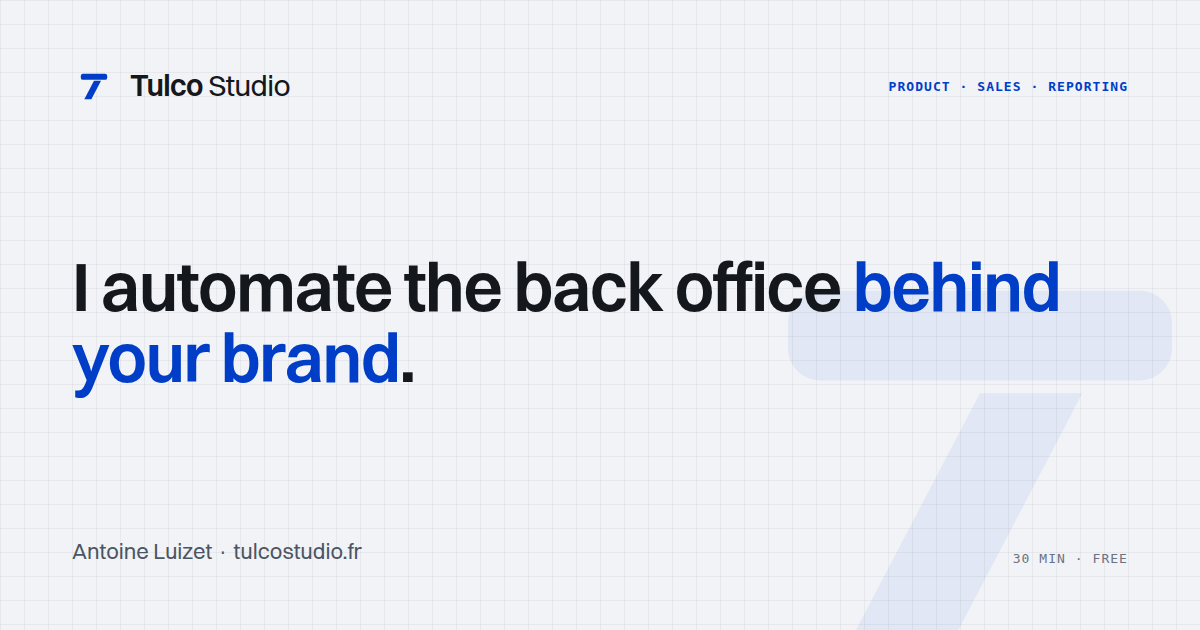
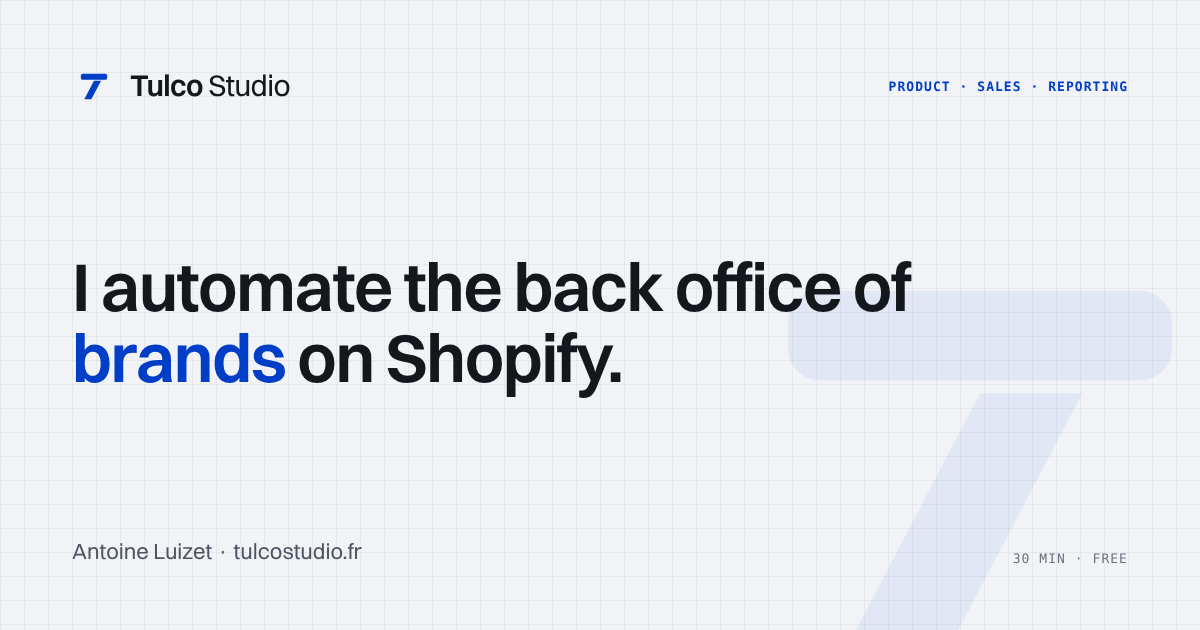
Recale la LP sur l'Offre V4 : Shopify cité, Odoo et Klaviyo retirés
- Titre, meta, images de partage, constat, trois flux, Pour qui, FAQ et
  footer mentionnent Shopify (FR et EN).
- Seul Shopify est cité comme marque d'outil ; les autres briques sont
  nommées par catégorie (ERP, PIM, PLM, CRM, emailing, expéditions).
- Ajout de la question FAQ « Vous êtes une agence Shopify ? ».
- og.png / og-en.png régénérées, brief et README alignés.

Claude-Session: https://claude.ai/code/session_01DhS4ZVVYFRFczXATYrpYc7

diff --git a/index.html b/index.html
@@ -4,8 +4,8 @@
 <meta charset="utf-8">
 <meta name="viewport" content="width=device-width, initial-scale=1">
 <link rel="icon" type="image/svg+xml" href="favicon.svg">
-<title>Tulco Studio · J'automatise le back-office des marques</title>
-<meta name="description" content="Fiches produit, commandes revendeurs, reporting : j'automatise le back-office des marques pour que vos équipes arrêtent de ressaisir. Ex chef de produit retail.">
+<title>Tulco Studio · J'automatise le back-office des marques sur Shopify</title>
+<meta name="description" content="Fiches produit, commandes revendeurs, reporting : j'automatise le back-office des marques sur Shopify pour que vos équipes arrêtent de ressaisir. Ex chef de produit retail.">
 <link rel="canonical" href="https://www.tulcostudio.fr/">
 <link rel="alternate" hreflang="fr" href="https://www.tulcostudio.fr/">
 <link rel="alternate" hreflang="en" href="https://www.tulcostudio.fr/en/">
@@ -13,15 +13,15 @@
 <meta property="og:type" content="website">
 <meta property="og:url" content="https://www.tulcostudio.fr/">
 <meta property="og:site_name" content="Tulco Studio">
-<meta property="og:title" content="Tulco Studio · J'automatise le back-office des marques">
+<meta property="og:title" content="Tulco Studio · J'automatise le back-office des marques sur Shopify">
 <meta property="og:description" content="Vos outils se parlent enfin. Vos équipes arrêtent de ressaisir et se concentrent sur la marque.">
 <meta property="og:image" content="https://www.tulcostudio.fr/og.png">
 <meta property="og:image:width" content="1200">
 <meta property="og:image:height" content="630">
-<meta property="og:image:alt" content="Tulco Studio : automatisation du back-office des marques">
+<meta property="og:image:alt" content="Tulco Studio : automatisation du back-office des marques sur Shopify">
 <meta property="og:locale" content="fr_FR">
 <meta name="twitter:card" content="summary_large_image">
-<meta name="twitter:title" content="Tulco Studio · J'automatise le back-office des marques">
+<meta name="twitter:title" content="Tulco Studio · J'automatise le back-office des marques sur Shopify">
 <meta name="twitter:description" content="Vos outils se parlent enfin. Vos équipes arrêtent de ressaisir et se concentrent sur la marque.">
 <meta name="twitter:image" content="https://www.tulcostudio.fr/og.png">
 <script src="./support.js"></script>
@@ -203,7 +203,7 @@
     <div style="position: relative; max-width: var(--container-max); margin: 0 auto; padding: clamp(48px,7vw,84px) clamp(20px,5vw,64px) clamp(44px,6vw,72px);">
       <div style="max-width: 900px;">
         <div style="font-family: var(--font-mono); font-size: 12px; font-weight: 600; text-transform: uppercase; letter-spacing: 0.08em; color: var(--accent); margin-bottom: 16px;">Back-office des marques · PME</div>
-        <h1 style="margin: 0; font-weight: 600; font-size: clamp(36px,6vw,78px); line-height: var(--leading-tight); letter-spacing: var(--tracking-display); color: var(--text-primary);">J'automatise le back-office des marques.</h1>
+        <h1 style="margin: 0; font-weight: 600; font-size: clamp(36px,6vw,78px); line-height: var(--leading-tight); letter-spacing: var(--tracking-display); color: var(--text-primary);">J'automatise le back-office des marques sur Shopify.</h1>
         <p style="margin: 24px 0 0; max-width: 620px; font-size: var(--text-lg); line-height: 1.35; color: var(--text-secondary); font-weight: 500;">Vos outils se parlent enfin. Vos équipes arrêtent de ressaisir et se concentrent sur la marque.</p>
         <div class="hero-cta">
           <x-import component-from-global-scope="TulcoStudioDesignSystem_ac5776.Button" variant="primary" size="lg" onClick="{{ openBooking }}" hint-size="340px,50px">Voir ce qu'on automatiserait en premier</x-import>
@@ -228,7 +228,7 @@
       <div style="background: var(--white); border: 1px solid var(--border-default); border-top: var(--rule-accent) solid var(--danger);">
         <div style="display: flex; gap: 14px; align-items: flex-start; padding: var(--space-5) var(--space-6); border-bottom: 1px solid var(--border-default);">
           <span style="flex: none; width: 8px; height: 8px; margin-top: 7px; background: var(--danger);"></span>
-          <p style="margin: 0; font-size: var(--text-sm); line-height: 1.6; color: var(--text-primary);">Le fichier de collection est recopié à la main pour le site.</p>
+          <p style="margin: 0; font-size: var(--text-sm); line-height: 1.6; color: var(--text-primary);">Le fichier de collection est recopié à la main sur Shopify.</p>
         </div>
         <div style="display: flex; gap: 14px; align-items: flex-start; padding: var(--space-5) var(--space-6); border-bottom: 1px solid var(--border-default);">
           <span style="flex: none; width: 8px; height: 8px; margin-top: 7px; background: var(--danger);"></span>
@@ -236,7 +236,7 @@
         </div>
         <div style="display: flex; gap: 14px; align-items: flex-start; padding: var(--space-5) var(--space-6); border-bottom: 1px solid var(--border-default);">
           <span style="flex: none; width: 8px; height: 8px; margin-top: 7px; background: var(--danger);"></span>
-          <p style="margin: 0; font-size: var(--text-sm); line-height: 1.6; color: var(--text-primary);">Le stock ne suit pas entre le site, la boutique et l'entrepôt.</p>
+          <p style="margin: 0; font-size: var(--text-sm); line-height: 1.6; color: var(--text-primary);">Le stock ne suit pas entre Shopify, la boutique et l'entrepôt.</p>
         </div>
         <div style="display: flex; gap: 14px; align-items: flex-start; padding: var(--space-5) var(--space-6);">
           <span style="flex: none; width: 8px; height: 8px; margin-top: 7px; background: var(--danger);"></span>
@@ -394,7 +394,7 @@
             <span class="proof-name">Nichebloom · marque en lancement</span>
             <span style="font-family: var(--font-mono); font-size: 10px; text-transform: uppercase; letter-spacing: 0.04em; padding: 4px 8px; background: var(--bg-subtle); border: 1px solid var(--border-default); color: var(--accent);">En cours</span>
           </div>
-          <p style="margin: 0; font-size: var(--text-sm); line-height: 1.6; color: var(--text-secondary);">Je pilote la mise en place du site Shopify, de l'ERP Odoo, de l'emailing Klaviyo et des process de vente revendeurs, avec l'IA sur les tâches récurrentes.</p>
+          <p style="margin: 0; font-size: var(--text-sm); line-height: 1.6; color: var(--text-secondary);">Je pilote la mise en place du site Shopify, de l'ERP, de l'emailing et des process de vente revendeurs, avec l'IA sur les tâches récurrentes.</p>
         </div>
         <div data-reveal="" class="proof-card">
           <span class="proof-name">Studio Muxi · premier projet Tulco</span>
@@ -444,7 +444,7 @@
       <div class="who-grid">
         <div data-reveal="" class="who-card" style="border-top-color: var(--success);">
           <div class="who-label" style="color: var(--success);">C'est pour vous si</div>
-          <p style="margin: 0 0 14px; font-size: var(--text-md); line-height: 1.5; color: var(--text-primary); font-weight: 500;">Vous êtes une marque PME qui conçoit et distribue ses produits : site, boutiques, revendeurs.</p>
+          <p style="margin: 0 0 14px; font-size: var(--text-md); line-height: 1.5; color: var(--text-primary); font-weight: 500;">Vous êtes une marque PME qui conçoit et distribue ses produits : site Shopify, boutiques, revendeurs.</p>
           <div class="who-list">
             <div class="who-item"><span style="background: var(--success);"></span><p>Vous lancez une marque, ou elle grandit plus vite que votre back-office.</p></div>
             <div class="who-item"><span style="background: var(--success);"></span><p>Plus vous avez de canaux, plus vous ressaisissez.</p></div>
@@ -460,7 +460,7 @@
             <div class="who-item"><span style="background: var(--accent);"></span><p>Une croissance qui oblige à recruter pour de l'administratif.</p></div>
             <div class="who-item"><span style="background: var(--accent);"></span><p>Des erreurs de stock ou de commande qui touchent vos revendeurs.</p></div>
           </div>
-          <p style="margin: 18px 0 0; padding-top: 14px; border-top: 1px solid var(--border-default); font-size: 13px; line-height: 1.55; color: var(--text-secondary);"><strong style="color: var(--text-primary); font-weight: 600;">Vos outils :</strong> Shopify, Odoo ou un autre ERP, Klaviyo, parfois un PLM ou un PIM. Et beaucoup d'Excel entre les deux.</p>
+          <p style="margin: 18px 0 0; padding-top: 14px; border-top: 1px solid var(--border-default); font-size: 13px; line-height: 1.55; color: var(--text-secondary);"><strong style="color: var(--text-primary); font-weight: 600;">Vos outils :</strong> Shopify, un ERP, parfois un PIM, un PLM ou un CRM. Et beaucoup d'Excel entre les deux.</p>
         </div>
         <div data-reveal="" class="who-card who-wide" style="border-top-color: var(--danger);">
           <div class="who-label" style="color: var(--danger);">Ce n'est pas pour vous si</div>
@@ -513,7 +513,7 @@
     <div style="max-width: var(--container-max); margin: 0 auto; display: flex; flex-wrap: wrap; gap: 48px; justify-content: space-between;">
       <div style="max-width: 360px; display: flex; flex-direction: column; gap: 16px;">
         <x-import component-from-global-scope="TulcoStudioDesignSystem_ac5776.Logo" variant="horizontal" tone="white" height="24" hint-size="150px,24px"></x-import>
-        <p style="margin: 0; font-size: var(--text-sm); line-height: 1.6; color: rgba(255,255,255,0.6);">J'automatise le back-office des marques : produit, ventes, pilotage.</p>
+        <p style="margin: 0; font-size: var(--text-sm); line-height: 1.6; color: rgba(255,255,255,0.6);">J'automatise le back-office des marques sur Shopify : produit, ventes, pilotage.</p>
       </div>
       <div style="display: flex; gap: 64px; flex-wrap: wrap;">
         <div style="display: flex; flex-direction: column; gap: 10px;">
@@ -622,8 +622,9 @@ class Component extends DCLogic {
   renderVals() {
     const items = [
       { q: "Ça va coûter cher ?", a: "On commence par un seul flux, celui qui coûte le plus en ressaisie. Le diagnostic chiffre le gain avant que vous vous engagiez." },
+      { q: "Vous êtes une agence Shopify ?", a: "Non. Les agences Shopify font le site et la conversion. Moi, je branche Shopify au reste du back-office : ERP, PIM, CRM, expéditions, pilotage." },
       { q: "Faut-il changer d'outils ?", a: "Non. Vos outils existants d'abord, du sur mesure seulement là où il manque quelque chose." },
-      { q: "Il existe déjà un connecteur Shopify-Odoo.", a: "Oui, pour synchroniser deux outils. Le vrai sujet, c'est le flux entier et vos règles métier." },
+      { q: "Il existe déjà une app pour relier Shopify à mon ERP.", a: "Oui, pour synchroniser deux outils. Le vrai sujet, c'est le flux entier et vos règles métier." },
       { q: "Combien de temps ça prend ?", a: "Un flux à la fois, livré par petits lots. Vos équipes s'en servent vite, sans tunnel de plusieurs mois." },
       { q: "Et si vous disparaissez ?", a: "Tout est documenté et vous appartient. On part de vos outils, pas d'un logiciel maison." },
       { q: "Mes équipes vont-elles suivre ?", a: "Je les forme et je les accompagne jusqu'à l'usage réel. Chez Volcom : 90 % d'adoption." },
@@ -638,9 +639,9 @@ class Component extends DCLogic {
       onToggle: () => this.setState(s => ({ openFaq: s.openFaq === i ? null : i })),
     }));
     const fluxData = [
-      { num: "01", name: "Produit", sub: "Du fichier de collection au site et au catalogue revendeurs.", avant: "Le marketing recopie le fichier de collection pour créer les fiches.", apres: "Les fiches se remplissent depuis la donnée de collection, partout à la fois.", outils: "PLM, PIM, Shopify." },
-      { num: "02", name: "Ventes", sub: "Des commandes revendeurs aux relances clients.", avant: "Quelqu'un ressaisit chaque commande dans l'ERP, puis relance à la main.", apres: "La commande arrive dans l'ERP sans ressaisie, les relances partent seules.", outils: "ERP (Odoo), CRM, Klaviyo." },
-      { num: "03", name: "Pilotage", sub: "Ventes, stocks, marges : à jour, sans compiler.", avant: "Cinq fichiers compilés chaque lundi, des chiffres qui se contredisent.", apres: "Un tableau de bord qui se met à jour seul, par canal.", outils: "Tableaux de bord branchés sur vos outils." },
+      { num: "01", name: "Produit", sub: "Du fichier de collection aux fiches Shopify et au catalogue revendeurs.", avant: "Le marketing recopie le fichier de collection pour créer les fiches.", apres: "Les fiches Shopify se remplissent depuis la donnée de collection, partout à la fois.", outils: "Shopify, PIM, PLM." },
+      { num: "02", name: "Ventes", sub: "Des commandes Shopify et revendeurs aux relances clients.", avant: "Quelqu'un ressaisit chaque commande dans l'ERP, puis relance à la main.", apres: "Chaque commande, Shopify ou revendeur, arrive dans l'ERP sans ressaisie. Les relances partent seules.", outils: "Shopify, ERP, CRM, emailing, expéditions." },
+      { num: "03", name: "Pilotage", sub: "Ventes, stocks, marges : à jour, sans compiler.", avant: "Cinq fichiers compilés chaque lundi, des chiffres qui se contredisent.", apres: "Un tableau de bord qui se met à jour seul, par canal.", outils: "Tableaux de bord branchés sur Shopify et vos outils." },
     ];
     const activeFlux = this.state.activeFlux ?? 0;
     const fluxTabs = fluxData.map((c, i) => ({

diff --git a/en/index.html b/en/index.html
@@ -4,8 +4,8 @@
 <meta charset="utf-8">
 <meta name="viewport" content="width=device-width, initial-scale=1">
 <link rel="icon" type="image/svg+xml" href="../favicon.svg">
-<title>Tulco Studio · Back-office automation for brands</title>
-<meta name="description" content="Product listings, wholesale orders, reporting: I automate the back office behind brands so your team stops re-keying data. Former retail product manager.">
+<title>Tulco Studio · Back-office automation for Shopify brands</title>
+<meta name="description" content="Product listings, wholesale orders, reporting: I automate the back office behind Shopify brands so your team stops re-keying data. Former retail product manager.">
 <link rel="canonical" href="https://www.tulcostudio.fr/en/">
 <link rel="alternate" hreflang="fr" href="https://www.tulcostudio.fr/">
 <link rel="alternate" hreflang="en" href="https://www.tulcostudio.fr/en/">
@@ -13,15 +13,15 @@
 <meta property="og:type" content="website">
 <meta property="og:url" content="https://www.tulcostudio.fr/en/">
 <meta property="og:site_name" content="Tulco Studio">
-<meta property="og:title" content="Tulco Studio · Back-office automation for brands">
+<meta property="og:title" content="Tulco Studio · Back-office automation for Shopify brands">
 <meta property="og:description" content="Your tools finally talk to each other. Your team stops re-keying data and focuses on the brand.">
 <meta property="og:image" content="https://www.tulcostudio.fr/og-en.png">
 <meta property="og:image:width" content="1200">
 <meta property="og:image:height" content="630">
-<meta property="og:image:alt" content="Tulco Studio: back-office automation for brands">
+<meta property="og:image:alt" content="Tulco Studio: back-office automation for Shopify brands">
 <meta property="og:locale" content="en_GB">
 <meta name="twitter:card" content="summary_large_image">
-<meta name="twitter:title" content="Tulco Studio · Back-office automation for brands">
+<meta name="twitter:title" content="Tulco Studio · Back-office automation for Shopify brands">
 <meta name="twitter:description" content="Your tools finally talk to each other. Your team stops re-keying data and focuses on the brand.">
 <meta name="twitter:image" content="https://www.tulcostudio.fr/og-en.png">
 <script src="../support.js"></script>
@@ -203,7 +203,7 @@
     <div style="position: relative; max-width: var(--container-max); margin: 0 auto; padding: clamp(48px,7vw,84px) clamp(20px,5vw,64px) clamp(44px,6vw,72px);">
       <div style="max-width: 900px;">
         <div style="font-family: var(--font-mono); font-size: 12px; font-weight: 600; text-transform: uppercase; letter-spacing: 0.08em; color: var(--accent); margin-bottom: 16px;">Back-office automation · Growing brands</div>
-        <h1 style="margin: 0; font-weight: 600; font-size: clamp(36px,6vw,78px); line-height: var(--leading-tight); letter-spacing: var(--tracking-display); color: var(--text-primary);">I automate the back office behind your brand.</h1>
+        <h1 style="margin: 0; font-weight: 600; font-size: clamp(36px,6vw,78px); line-height: var(--leading-tight); letter-spacing: var(--tracking-display); color: var(--text-primary);">I automate the back office of brands on Shopify.</h1>
         <p style="margin: 24px 0 0; max-width: 620px; font-size: var(--text-lg); line-height: 1.35; color: var(--text-secondary); font-weight: 500;">Your tools finally talk to each other. Your team stops re-keying data and focuses on the brand.</p>
         <div class="hero-cta">
           <x-import component-from-global-scope="TulcoStudioDesignSystem_ac5776.Button" variant="primary" size="lg" onClick="{{ openBooking }}" hint-size="340px,50px">See what we'd automate first</x-import>
@@ -228,7 +228,7 @@
       <div style="background: var(--white); border: 1px solid var(--border-default); border-top: var(--rule-accent) solid var(--danger);">
         <div style="display: flex; gap: 14px; align-items: flex-start; padding: var(--space-5) var(--space-6); border-bottom: 1px solid var(--border-default);">
           <span style="flex: none; width: 8px; height: 8px; margin-top: 7px; background: var(--danger);"></span>
-          <p style="margin: 0; font-size: var(--text-sm); line-height: 1.6; color: var(--text-primary);">The line sheet is copied by hand onto the website.</p>
+          <p style="margin: 0; font-size: var(--text-sm); line-height: 1.6; color: var(--text-primary);">The line sheet is copied by hand into Shopify.</p>
         </div>
         <div style="display: flex; gap: 14px; align-items: flex-start; padding: var(--space-5) var(--space-6); border-bottom: 1px solid var(--border-default);">
           <span style="flex: none; width: 8px; height: 8px; margin-top: 7px; background: var(--danger);"></span>
@@ -236,7 +236,7 @@
         </div>
         <div style="display: flex; gap: 14px; align-items: flex-start; padding: var(--space-5) var(--space-6); border-bottom: 1px solid var(--border-default);">
           <span style="flex: none; width: 8px; height: 8px; margin-top: 7px; background: var(--danger);"></span>
-          <p style="margin: 0; font-size: var(--text-sm); line-height: 1.6; color: var(--text-primary);">Stock doesn't match between the website, the store and the warehouse.</p>
+          <p style="margin: 0; font-size: var(--text-sm); line-height: 1.6; color: var(--text-primary);">Stock doesn't match between Shopify, the store and the warehouse.</p>
         </div>
         <div style="display: flex; gap: 14px; align-items: flex-start; padding: var(--space-5) var(--space-6);">
           <span style="flex: none; width: 8px; height: 8px; margin-top: 7px; background: var(--danger);"></span>
@@ -394,7 +394,7 @@
             <span class="proof-name">Nichebloom · launching brand</span>
             <span style="font-family: var(--font-mono); font-size: 10px; text-transform: uppercase; letter-spacing: 0.04em; padding: 4px 8px; background: var(--bg-subtle); border: 1px solid var(--border-default); color: var(--accent);">In progress</span>
           </div>
-          <p style="margin: 0; font-size: var(--text-sm); line-height: 1.6; color: var(--text-secondary);">I'm leading the setup of the Shopify store, the Odoo ERP, Klaviyo emailing and wholesale sales processes, with AI on recurring tasks.</p>
+          <p style="margin: 0; font-size: var(--text-sm); line-height: 1.6; color: var(--text-secondary);">I'm leading the setup of the Shopify store, the ERP, emailing and wholesale sales processes, with AI on recurring tasks.</p>
         </div>
         <div data-reveal="" class="proof-card">
           <span class="proof-name">Studio Muxi · first Tulco project</span>
@@ -444,7 +444,7 @@
       <div class="who-grid">
         <div data-reveal="" class="who-card" style="border-top-color: var(--success);">
           <div class="who-label" style="color: var(--success);">A good fit if</div>
-          <p style="margin: 0 0 14px; font-size: var(--text-md); line-height: 1.5; color: var(--text-primary); font-weight: 500;">You're a growing brand that designs and distributes its own products: website, stores, retailers.</p>
+          <p style="margin: 0 0 14px; font-size: var(--text-md); line-height: 1.5; color: var(--text-primary); font-weight: 500;">You're a growing brand that designs and distributes its own products: Shopify website, stores, retailers.</p>
           <div class="who-list">
             <div class="who-item"><span style="background: var(--success);"></span><p>You're launching a brand, or it's growing faster than your back office.</p></div>
             <div class="who-item"><span style="background: var(--success);"></span><p>The more channels you have, the more you re-key.</p></div>
@@ -460,7 +460,7 @@
             <div class="who-item"><span style="background: var(--accent);"></span><p>Growth that forces you to hire for admin work.</p></div>
             <div class="who-item"><span style="background: var(--accent);"></span><p>Stock or order errors that hit your retailers.</p></div>
           </div>
-          <p style="margin: 18px 0 0; padding-top: 14px; border-top: 1px solid var(--border-default); font-size: 13px; line-height: 1.55; color: var(--text-secondary);"><strong style="color: var(--text-primary); font-weight: 600;">Your tools:</strong> Shopify, Odoo or another ERP, Klaviyo, sometimes a PLM or PIM. And lots of spreadsheets in between.</p>
+          <p style="margin: 18px 0 0; padding-top: 14px; border-top: 1px solid var(--border-default); font-size: 13px; line-height: 1.55; color: var(--text-secondary);"><strong style="color: var(--text-primary); font-weight: 600;">Your tools:</strong> Shopify, an ERP, sometimes a PIM, a PLM or a CRM. And lots of spreadsheets in between.</p>
         </div>
         <div data-reveal="" class="who-card who-wide" style="border-top-color: var(--danger);">
           <div class="who-label" style="color: var(--danger);">Not a fit if</div>
@@ -513,7 +513,7 @@
     <div style="max-width: var(--container-max); margin: 0 auto; display: flex; flex-wrap: wrap; gap: 48px; justify-content: space-between;">
       <div style="max-width: 360px; display: flex; flex-direction: column; gap: 16px;">
         <x-import component-from-global-scope="TulcoStudioDesignSystem_ac5776.Logo" variant="horizontal" tone="white" height="24" hint-size="150px,24px"></x-import>
-        <p style="margin: 0; font-size: var(--text-sm); line-height: 1.6; color: rgba(255,255,255,0.6);">I automate the back office behind brands: product, sales, reporting.</p>
+        <p style="margin: 0; font-size: var(--text-sm); line-height: 1.6; color: rgba(255,255,255,0.6);">I automate the back office of brands on Shopify: product, sales, reporting.</p>
       </div>
       <div style="display: flex; gap: 64px; flex-wrap: wrap;">
         <div style="display: flex; flex-direction: column; gap: 10px;">
@@ -622,8 +622,9 @@ class Component extends DCLogic {
   renderVals() {
     const items = [
       { q: "Is it expensive?", a: "We start with one flow, the one that costs you most in re-keying. The audit quantifies the gain before you commit." },
+      { q: "Are you a Shopify agency?", a: "No. Shopify agencies build the store and drive conversion. I connect Shopify to the rest of your back office: ERP, PIM, CRM, shipping, reporting." },
       { q: "Do we need to change tools?", a: "No. Your existing tools first, custom work only where something is missing." },
-      { q: "There's already a Shopify-Odoo connector.", a: "Yes, to sync two tools. The real issue is the whole flow and your business rules." },
+      { q: "There's already an app to connect Shopify to my ERP.", a: "Yes, to sync two tools. The real issue is the whole flow and your business rules." },
       { q: "How long does it take?", a: "One flow at a time, delivered in small batches. Your team uses it quickly, no months-long tunnel." },
       { q: "What if you disappear?", a: "Everything is documented and yours. We build on your tools, not on in-house software." },
       { q: "Will my team follow?", a: "I train and support them until they actually use it. At Volcom: 90% adoption." },
@@ -638,9 +639,9 @@ class Component extends DCLogic {
       onToggle: () => this.setState(s => ({ openFaq: s.openFaq === i ? null : i })),
     }));
     const fluxData = [
-      { num: "01", name: "Product", sub: "From line sheet to website and wholesale catalog.", avant: "Marketing re-types the line sheet to build product pages.", apres: "Product pages fill themselves from collection data, everywhere at once.", outils: "PLM, PIM, Shopify." },
-      { num: "02", name: "Sales", sub: "From wholesale orders to customer follow-ups.", avant: "Someone re-keys every order into the ERP, then chases by hand.", apres: "Orders land in the ERP with no re-keying, follow-ups go out on their own.", outils: "ERP (Odoo), CRM, Klaviyo." },
-      { num: "03", name: "Reporting", sub: "Sales, stock, margins: up to date, no compiling.", avant: "Five files merged every Monday, numbers that disagree.", apres: "A dashboard that updates itself, by channel.", outils: "Dashboards connected to your tools." },
+      { num: "01", name: "Product", sub: "From line sheet to Shopify product pages and wholesale catalog.", avant: "Marketing re-types the line sheet to build product pages.", apres: "Shopify product pages fill themselves from collection data, everywhere at once.", outils: "Shopify, PIM, PLM." },
+      { num: "02", name: "Sales", sub: "From Shopify and wholesale orders to customer follow-ups.", avant: "Someone re-keys every order into the ERP, then chases by hand.", apres: "Every order, Shopify or wholesale, lands in the ERP with no re-keying. Follow-ups go out on their own.", outils: "Shopify, ERP, CRM, emailing, shipping." },
+      { num: "03", name: "Reporting", sub: "Sales, stock, margins: up to date, no compiling.", avant: "Five files merged every Monday, numbers that disagree.", apres: "A dashboard that updates itself, by channel.", outils: "Dashboards connected to Shopify and your tools." },
     ];
     const activeFlux = this.state.activeFlux ?? 0;
     const fluxTabs = fluxData.map((c, i) => ({

diff --git a/og-card-en.html b/og-card-en.html
@@ -97,7 +97,7 @@
   </div>
 
   <div class="headline">
-    I automate the back office <span class="accent">behind your brand</span>.
+    I automate the back office of <span class="accent">brands</span> on Shopify.
   </div>
 
   <div class="footer">

diff --git a/og-card.html b/og-card.html
@@ -97,7 +97,7 @@
   </div>
 
   <div class="headline">
-    J'automatise le back-office <span class="accent">des marques</span>.
+    J'automatise le back-office <span class="accent">des marques</span> sur Shopify.
   </div>
 
   <div class="footer">

diff --git a/uploads/landing-tulco-studio-v3.md b/uploads/landing-tulco-studio-v3.md
@@ -1,7 +1,13 @@
-# Landing page Tulco Studio : copie V3 (positionnement retail)
+# Landing page Tulco Studio : copie V3 (positionnement retail), recalée sur l'Offre V4 (Shopify)
 
 *Statut : intégrée dans `index.html`. Remplace `landing-tulco-studio.md` (V2, outil métier sur-mesure).*
-*Sources : Profil LinkedIn v2 (28/09), Offre V3 (29/09), Profil entrepreneur v4 (29/09).*
+*Sources : Profil LinkedIn v2 (28/09), Offre V3 (29/09), Profil entrepreneur v4 (29/09). Recalage Shopify : Offre V4 (05/10), décision du 27/10.*
+
+> **Recalage du 27/10 (Offre V4) :**
+> - Shopify entre dans le titre, la meta, l'image de partage, le constat, les trois flux, Pour qui, la FAQ et le footer.
+> - Seul Shopify est cité comme marque d'outil. Les autres briques sont nommées par catégorie (ERP, PIM, PLM, CRM, emailing, expéditions). Plus d'Odoo ni de Klaviyo sur la page.
+> - Nouvelle question FAQ issue de l'Offre V4 : « Vous êtes une agence Shopify ? ».
+> - Logo Shopify : pas dans le titre. Seul usage prévu par le kit partenaires : un bloc « Tulco Studio × Shopify ». Emplacement à valider avec le redesign.
 
 ## Règles d'écriture de la page
 
@@ -31,11 +37,11 @@ Navigation : Le constat · Les flux · Pourquoi moi · Méthode · Réalisations
 
 ## 0. Meta et partage
 
-- **Title :** Tulco Studio · J'automatise le back-office des marques
-- **Meta description :** Fiches produit, commandes revendeurs, reporting : j'automatise le back-office des marques pour que vos équipes arrêtent de ressaisir. Ex chef de produit retail.
-- **OG / Twitter title :** Tulco Studio · J'automatise le back-office des marques
+- **Title :** Tulco Studio · J'automatise le back-office des marques sur Shopify
+- **Meta description :** Fiches produit, commandes revendeurs, reporting : j'automatise le back-office des marques sur Shopify pour que vos équipes arrêtent de ressaisir. Ex chef de produit retail.
+- **OG / Twitter title :** Tulco Studio · J'automatise le back-office des marques sur Shopify
 - **OG / Twitter description :** Vos outils se parlent enfin. Vos équipes arrêtent de ressaisir et se concentrent sur la marque.
-- **OG image alt :** Tulco Studio : automatisation du back-office des marques
+- **OG image alt :** Tulco Studio : automatisation du back-office des marques sur Shopify
 - **`og.png` :** à régénérer depuis `og-card.html` avec le nouveau titre.
 
 ---
@@ -45,7 +51,7 @@ Navigation : Le constat · Les flux · Pourquoi moi · Méthode · Réalisations
 **Eyebrow :** Back-office des marques · PME
 
 **Titre :**
-J'automatise le back-office des marques.
+J'automatise le back-office des marques sur Shopify.
 
 **Sous-titre :**
 Vos outils se parlent enfin. Vos équipes arrêtent de ressaisir et se concentrent sur la marque.
@@ -65,9 +71,9 @@ Produit · Ventes · Pilotage
 **Titre :** Tout passe encore par des fichiers.
 
 **Puces :**
-- Le fichier de collection est recopié à la main pour le site.
+- Le fichier de collection est recopié à la main sur Shopify.
 - Les commandes revendeurs passent de l'Excel du commercial à l'ERP, à la main.
-- Le stock ne suit pas entre le site, la boutique et l'entrepôt.
+- Le stock ne suit pas entre Shopify, la boutique et l'entrepôt.
 - Le lundi, on compile cinq fichiers pour savoir ce qui s'est vendu.
 
 **Encadré :**
@@ -84,22 +90,22 @@ Chaque copie crée une erreur. Et une erreur de stock ou de commande, c'est un r
 **Onglets (composant existant de la « chaîne produit », réutilisé) :**
 
 ### Produit
-Du fichier de collection au site et au catalogue revendeurs.
+Du fichier de collection aux fiches Shopify et au catalogue revendeurs.
 - **Avant :** le marketing recopie le fichier de collection pour créer les fiches.
-- **Après :** les fiches se remplissent depuis la donnée de collection, partout à la fois.
-- **Outils :** PLM, PIM, Shopify.
+- **Après :** les fiches Shopify se remplissent depuis la donnée de collection, partout à la fois.
+- **Outils :** Shopify, PIM, PLM.
 
 ### Ventes
-Des commandes revendeurs aux relances clients.
+Des commandes Shopify et revendeurs aux relances clients.
 - **Avant :** quelqu'un ressaisit chaque commande dans l'ERP, puis relance à la main.
-- **Après :** la commande arrive dans l'ERP sans ressaisie, les relances partent seules.
-- **Outils :** ERP (Odoo), CRM, Klaviyo.
+- **Après :** chaque commande, Shopify ou revendeur, arrive dans l'ERP sans ressaisie. Les relances partent seules.
+- **Outils :** Shopify, ERP, CRM, emailing, expéditions.
 
 ### Pilotage
 Ventes, stocks, marges : à jour, sans compiler.
 - **Avant :** cinq fichiers compilés chaque lundi, des chiffres qui se contredisent.
 - **Après :** un tableau de bord qui se met à jour seul, par canal.
-- **Outils :** tableaux de bord branchés sur vos outils.
+- **Outils :** tableaux de bord branchés sur Shopify et vos outils.
 
 **Bloc IA (bandeau sous les onglets) :**
 
@@ -170,7 +176,7 @@ Déploiement du PLM entre design, merchandising et sourcing.
 - **90 %** d'adoption par les équipes
 
 **Carte 2 · Nichebloom · marque en lancement** *(badge « En cours », aucun chiffre)*
-Je pilote la mise en place du site Shopify, de l'ERP Odoo, de l'emailing Klaviyo et des process de vente revendeurs, avec l'IA sur les tâches récurrentes.
+Je pilote la mise en place du site Shopify, de l'ERP, de l'emailing et des process de vente revendeurs, avec l'IA sur les tâches récurrentes.
 
 **Carte 3 · Studio Muxi · premier projet Tulco**
 Commandes, stocks et pilotage financier réunis au même endroit. Marge visible en temps réel.
@@ -203,7 +209,7 @@ Hors retail, même méthode : comprendre le métier, construire, faire adopter.
 **Titre :** Pour qui, et pour qui ce n'est pas.
 
 **Bloc 1 · C'est pour vous si**
-Vous êtes une marque PME qui conçoit et distribue ses produits : site, boutiques, revendeurs.
+Vous êtes une marque PME qui conçoit et distribue ses produits : site Shopify, boutiques, revendeurs.
 - Vous lancez une marque ou elle grandit plus vite que votre back-office.
 - Plus vous avez de canaux, plus vous ressaisissez.
 
@@ -217,7 +223,7 @@ Vous êtes une marque PME qui conçoit et distribue ses produits : site, boutiqu
 - Des erreurs de stock ou de commande qui touchent vos revendeurs.
 
 **Bloc 3 · Vos outils** (note en bas du bloc 2)
-Shopify, Odoo ou un autre ERP, Klaviyo, parfois un PLM ou un PIM. Et beaucoup d'Excel entre les deux.
+Shopify, un ERP, parfois un PIM, un PLM ou un CRM. Et beaucoup d'Excel entre les deux.
 
 **Bloc 4 · Ce n'est pas pour vous si** (pleine largeur)
 - Vous voulez juste relier deux outils : un connecteur à quelques dizaines d'euros par mois suffit, je vous le dirai.
@@ -234,9 +240,11 @@ Shopify, Odoo ou un autre ERP, Klaviyo, parfois un PLM ou un PIM. Et beaucoup d'
 
 - **Ça va coûter cher ?**
   On commence par un seul flux, celui qui coûte le plus en ressaisie. Le diagnostic chiffre le gain avant que vous vous engagiez.
+- **Vous êtes une agence Shopify ?**
+  Non. Les agences Shopify font le site et la conversion. Moi, je branche Shopify au reste du back-office : ERP, PIM, CRM, expéditions, pilotage.
 - **Faut-il changer d'outils ?**
   Non. Vos outils existants d'abord, du sur mesure seulement là où il manque quelque chose.
-- **Il existe déjà un connecteur Shopify-Odoo.**
+- **Il existe déjà une app pour relier Shopify à mon ERP.**
   Oui, pour synchroniser deux outils. Le vrai sujet, c'est le flux entier et vos règles métier.
 - **Combien de temps ça prend ?**
   Un flux à la fois, livré par petits lots. Vos équipes s'en servent vite, sans tunnel de plusieurs mois.
@@ -257,7 +265,7 @@ Shopify, Odoo ou un autre ERP, Klaviyo, parfois un PLM ou un PIM. Et beaucoup d'
 
 **Bouton :** Réserver 30 minutes
 
-**Footer, signature :** J'automatise le back-office des marques : produit, ventes, pilotage.
+**Footer, signature :** J'automatise le back-office des marques sur Shopify : produit, ventes, pilotage.
 
 **Footer, liens :** Les flux · Réalisations · FAQ · LinkedIn · Réserver 30 min (pas d'adresse mail)
 

diff --git a/README.md b/README.md
@@ -1,6 +1,6 @@
 # Tulco Studio · Landing Page
 
-Landing page d'Antoine Luizet / Tulco Studio : automatisation du back-office des marques (produit, ventes, pilotage).
+Landing page d'Antoine Luizet / Tulco Studio : automatisation du back-office des marques sur Shopify (produit, ventes, pilotage).
 
 ## Live
 
